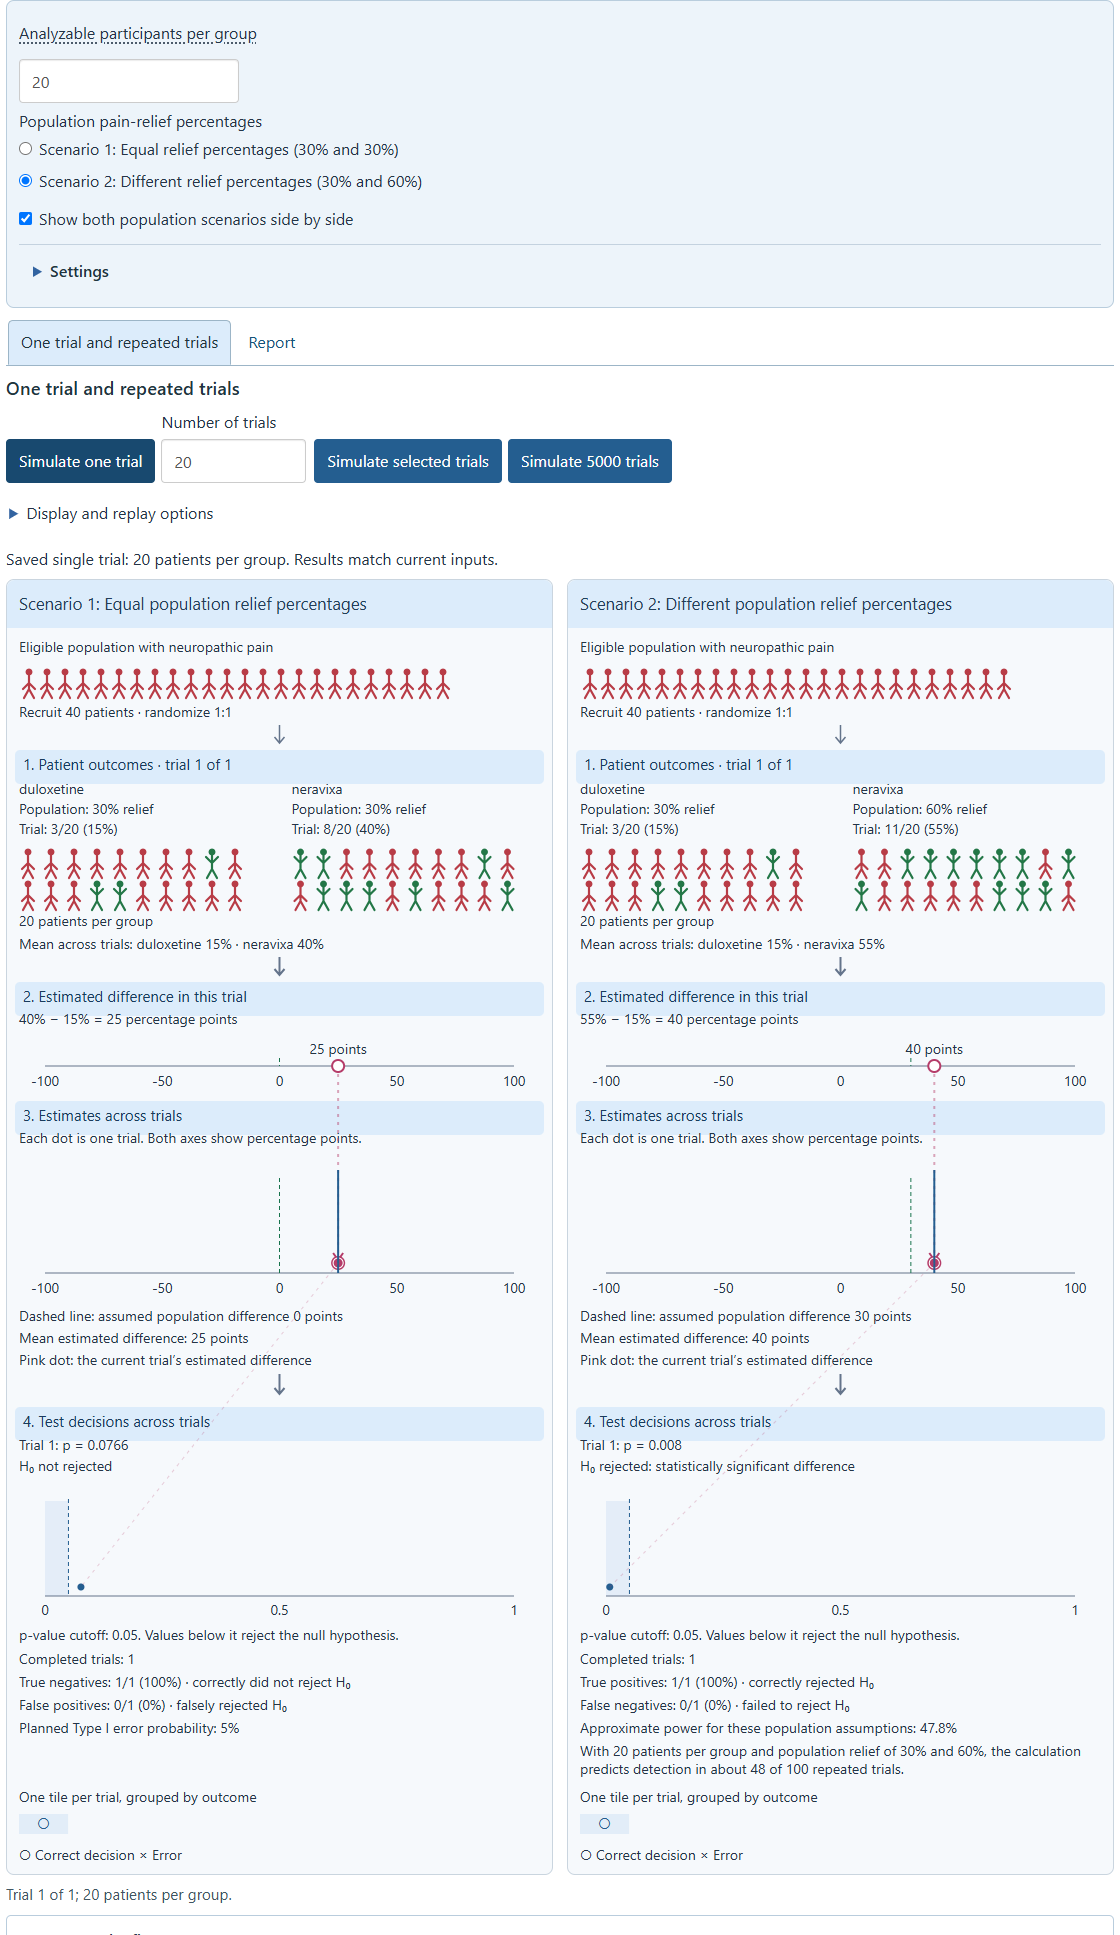
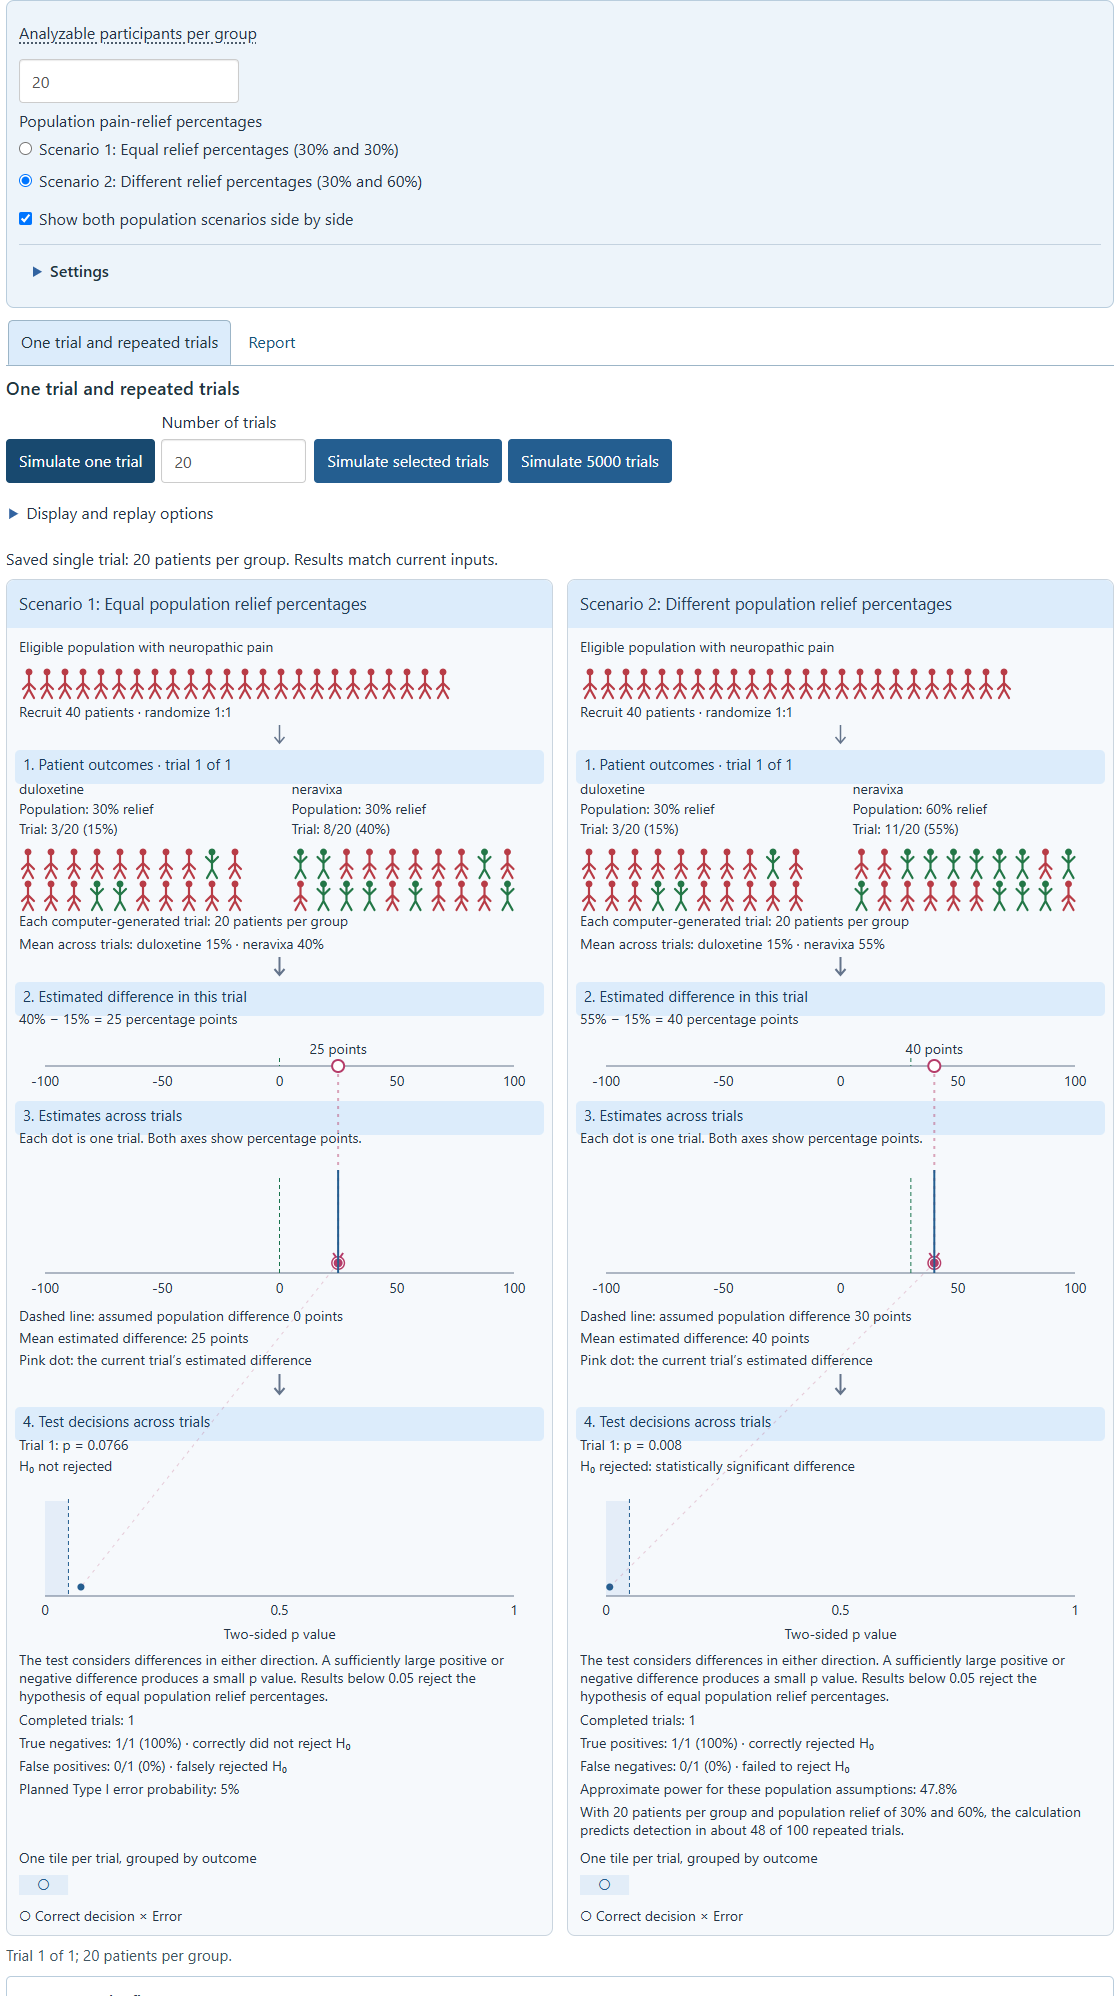
Clarify two-sided p values in trial simulation

diff --git a/apps/power_explorer/www/sampling-journey.js b/apps/power_explorer/www/sampling-journey.js
@@ -86,7 +86,7 @@
     host.replaceChildren();
     const width=Math.max(250,Math.floor(Math.min(760, host.clientWidth))), t=data.trials[index];
     const labels=data.labels || ['Standard','Novel'], at=x=>38+(x+1)*(width-76)/2;
-    const svg=node(host,'svg',{viewBox:`0 0 ${width} 500`,role:'img','aria-label':'Patient outcomes, estimated differences, p values and test decisions','data-population':data.p1});
+    const svg=node(host,'svg',{viewBox:`0 0 ${width} 500`,role:'img','aria-label':'Patient outcomes, estimated differences, two-sided p values and test decisions','data-population':data.p1});
     let previousBoundary=0;
     function align(key,proposed){
       const height=proposed-previousBoundary;
@@ -247,7 +247,8 @@
     node(svg,'line',{x1:38,x2:width-38,y1:pAxis,y2:pAxis,stroke:'#64748b','data-aligned-axis':'decisions'});
     node(svg,'line',{x1:cutoff,x2:cutoff,y1:pAxis-97,y2:pAxis,stroke:'#245e90','stroke-dasharray':'4 3'});
     [0,.5,1].forEach(p=>node(svg,'text',{x:px(p),y:pAxis+19,'text-anchor':'middle',style:'font-size:14px'},p));
-    y=text(`p-value cutoff: ${data.alpha}. Values below it reject the null hypothesis.`,12,pAxis+44);
+    node(svg,'text',{x:width/2,y:pAxis+43,'text-anchor':'middle',style:'font-size:14px'},'Two-sided p value');
+    y=text(`The test considers differences in either direction. A sufficiently large positive or negative difference produces a small p value. Results below ${data.alpha} reject the hypothesis of equal population ${pain ? 'relief percentages' : 'event percentages'}.`,12,pAxis+69);
     y=text(`Completed trials: ${values.length}`,12,y+24);
     decisionSummary(data,decisions).forEach((line,i)=>{y=text(line,12,align('decision-'+i,y+23));});
     y=text(isNull(data)?`Planned Type I error probability: ${pct(data.alpha)}`:`Approximate power for these population assumptions: ${pct(data.expected)}`,12,align('benchmark',y+23));

diff --git a/student-materials/activity-walkthroughs.md b/student-materials/activity-walkthroughs.md
@@ -73,11 +73,11 @@ The [annotated report in Chapter 3](../book/reporting.html#write-a-sample-size-j
 Purpose: see why sample estimates differ from population values, interpret the uncertainty in one trial, and relate repeated trials to power.
 
 1. Scenario 1 uses 30% relief with each treatment, and Scenario 2 uses 30% with duloxetine and 60% with neravixa. The scenarios appear side by side, each starting with 20 patients per group and a 5% Type I error probability. Red stick figures represent the eligible population with neuropathic pain.
-2. “Simulate one trial” follows patient outcomes through four steps: outcomes, estimated difference, estimates across trials, and the p value and test decision.
+2. “Simulate one trial” follows patient outcomes through four steps: outcomes, estimated difference, estimates across trials, and the two-sided p value and test decision. Step 4 combines evidence in both directions into one p value. Values below the selected cutoff reject equal population relief percentages. Steps 2–3 retain the direction of the observed difference.
 3. The repetition field starts at 20. “Simulate selected trials” animates up to 20 trials. Larger selected counts appear immediately as distributions. Up to 40 patients per group appear as stick figures. Larger groups use red/green bars with exact outcome counts. Correct decisions precede errors in both scenario grids. Each scenario has its own interpretation, with mean relief percentages and the mean estimated difference after a completed run. “Simulate 5000 trials” provides a quick view of repeated performance.
 4. Red stick figures show patients without pain relief, and green figures with raised arms show patients who achieved relief. Each trial's estimate and p value come from those patient outcomes. Blue circles mark correct test decisions, and amber crosses mark errors. Counts and percentages summarize both decisions in each population scenario.
 5. “Display and replay options” contains Pause, Replay, “Finish this batch,” animation speed and reduced motion. “Reset results” clears the simulations while keeping the input settings. Increasing the sample from 20 to 50 per group and generating another batch overlays the earlier estimates for comparison.
-6. “Interpret the figure” explains each scenario in its own column. The Report tab gathers the assumptions, patient counts and repeated-trial summaries.
+6. “Interpret the figure” explains each scenario in its own column, including the observed percentages of correct decisions and errors.
 
 ## Reviewing short examples
 
